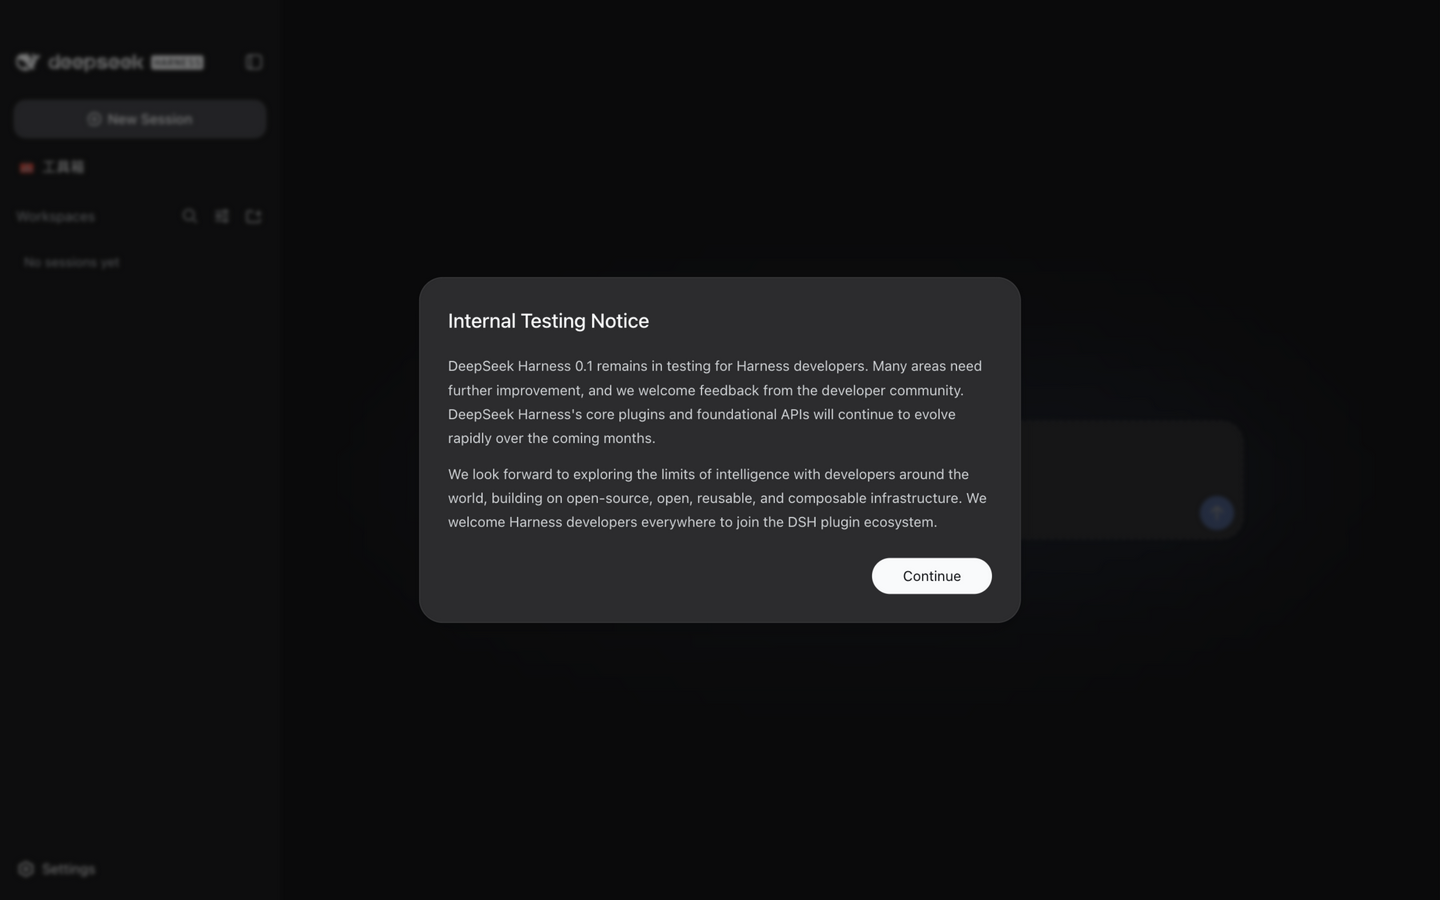
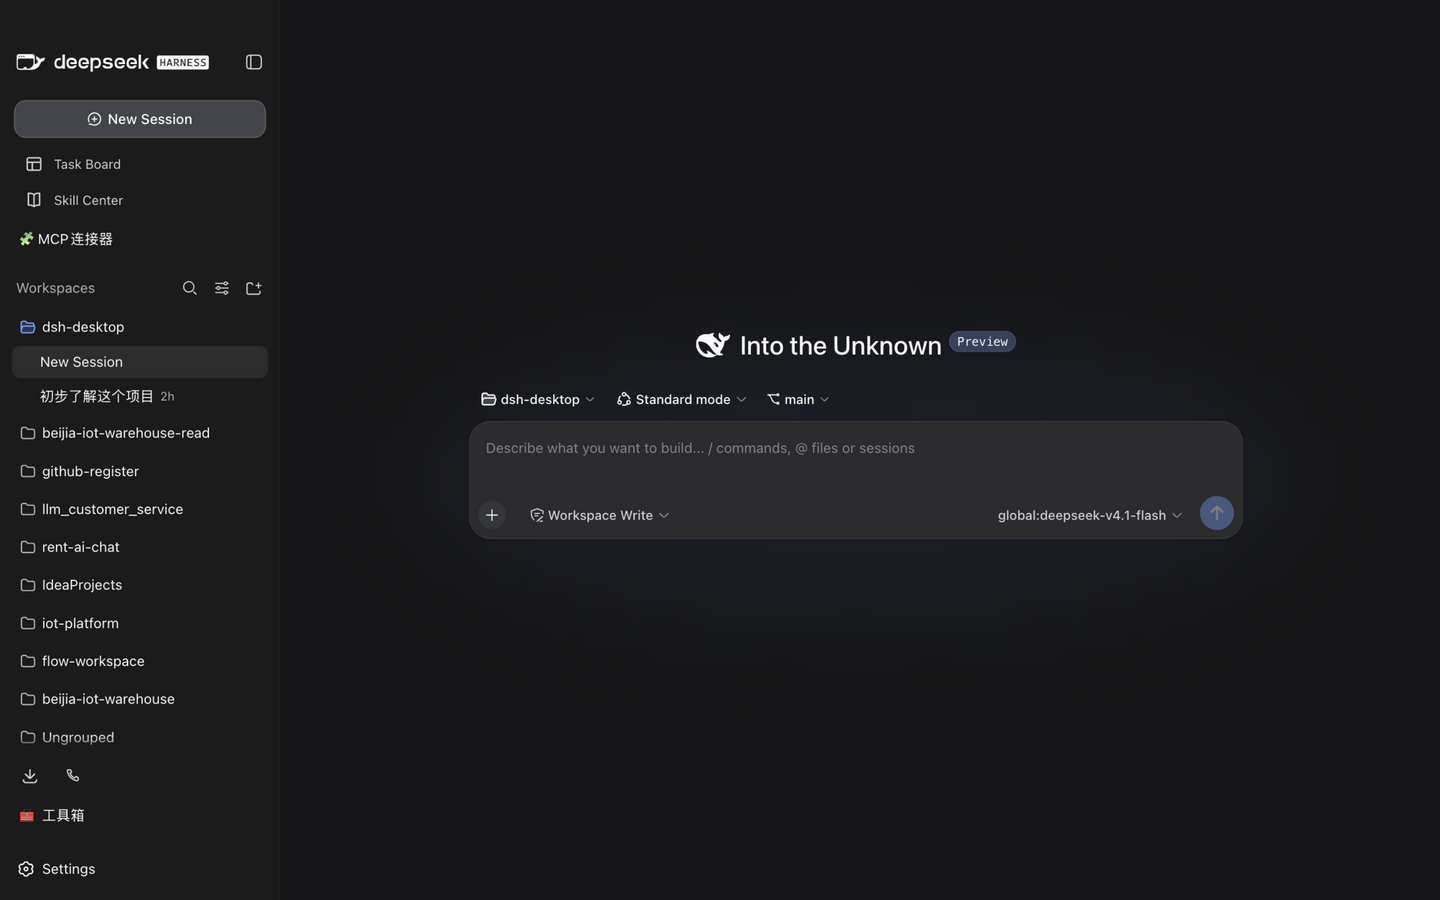
docs: 更新入口位置说明与截图（入口改到侧边栏底部后）

diff --git a/README.md b/README.md
@@ -6,16 +6,25 @@
 
 ![工具箱面板](docs/screenshot.png)
 
-左栏入口（在「新会话」与「工作区」之间）：
+左栏入口（位于侧边栏底部、设置上方）：
 
 ![左栏入口](docs/sidebar.png)
 
 ## 它做什么
 
-- **左栏入口**：出现在「MCP 连接器」下方、「工作区」上方，与官方导航项同一套样式。
+- **左栏入口**：注册在官方 `sidebar.footer.action` 插槽，出现在侧边栏底部（设置上方）。
 - **Tab 容器**：每个 Tab 是一个内嵌页面（iframe），指向你配置的地址。
 - **可配置**：面板右上角 ⚙ 打开设置，增删改 Tab，保存后写入 `$DSH_HOME/toolbox/config.json`。
 - **连通性提示**：打开面板时会探测各 Tab 是否可达，不可达时给出原因和地址，而不是一片空白。
+
+### 为什么入口在底部
+
+插件**不做任何 DOM 注入**：不查询、不插入、不搬移别人的节点，也不观察 DOM 变化，位置完全交给插槽宿主决定。
+
+这是刻意的取舍。侧边栏里已有插件（例如 MCP 连接器）用 `MutationObserver` 维护自己的位置不变式；
+如果本插件也去抢同一块 DOM，两边的 observer 会互相把对方搬走，形成无限微任务循环，
+把渲染进程 CPU 打满直至崩溃（界面卡在 "Loading plugins..."）。
+位置稳定、不与任何插件耦合，比位置好看更重要。
 
 ## 安装
 
